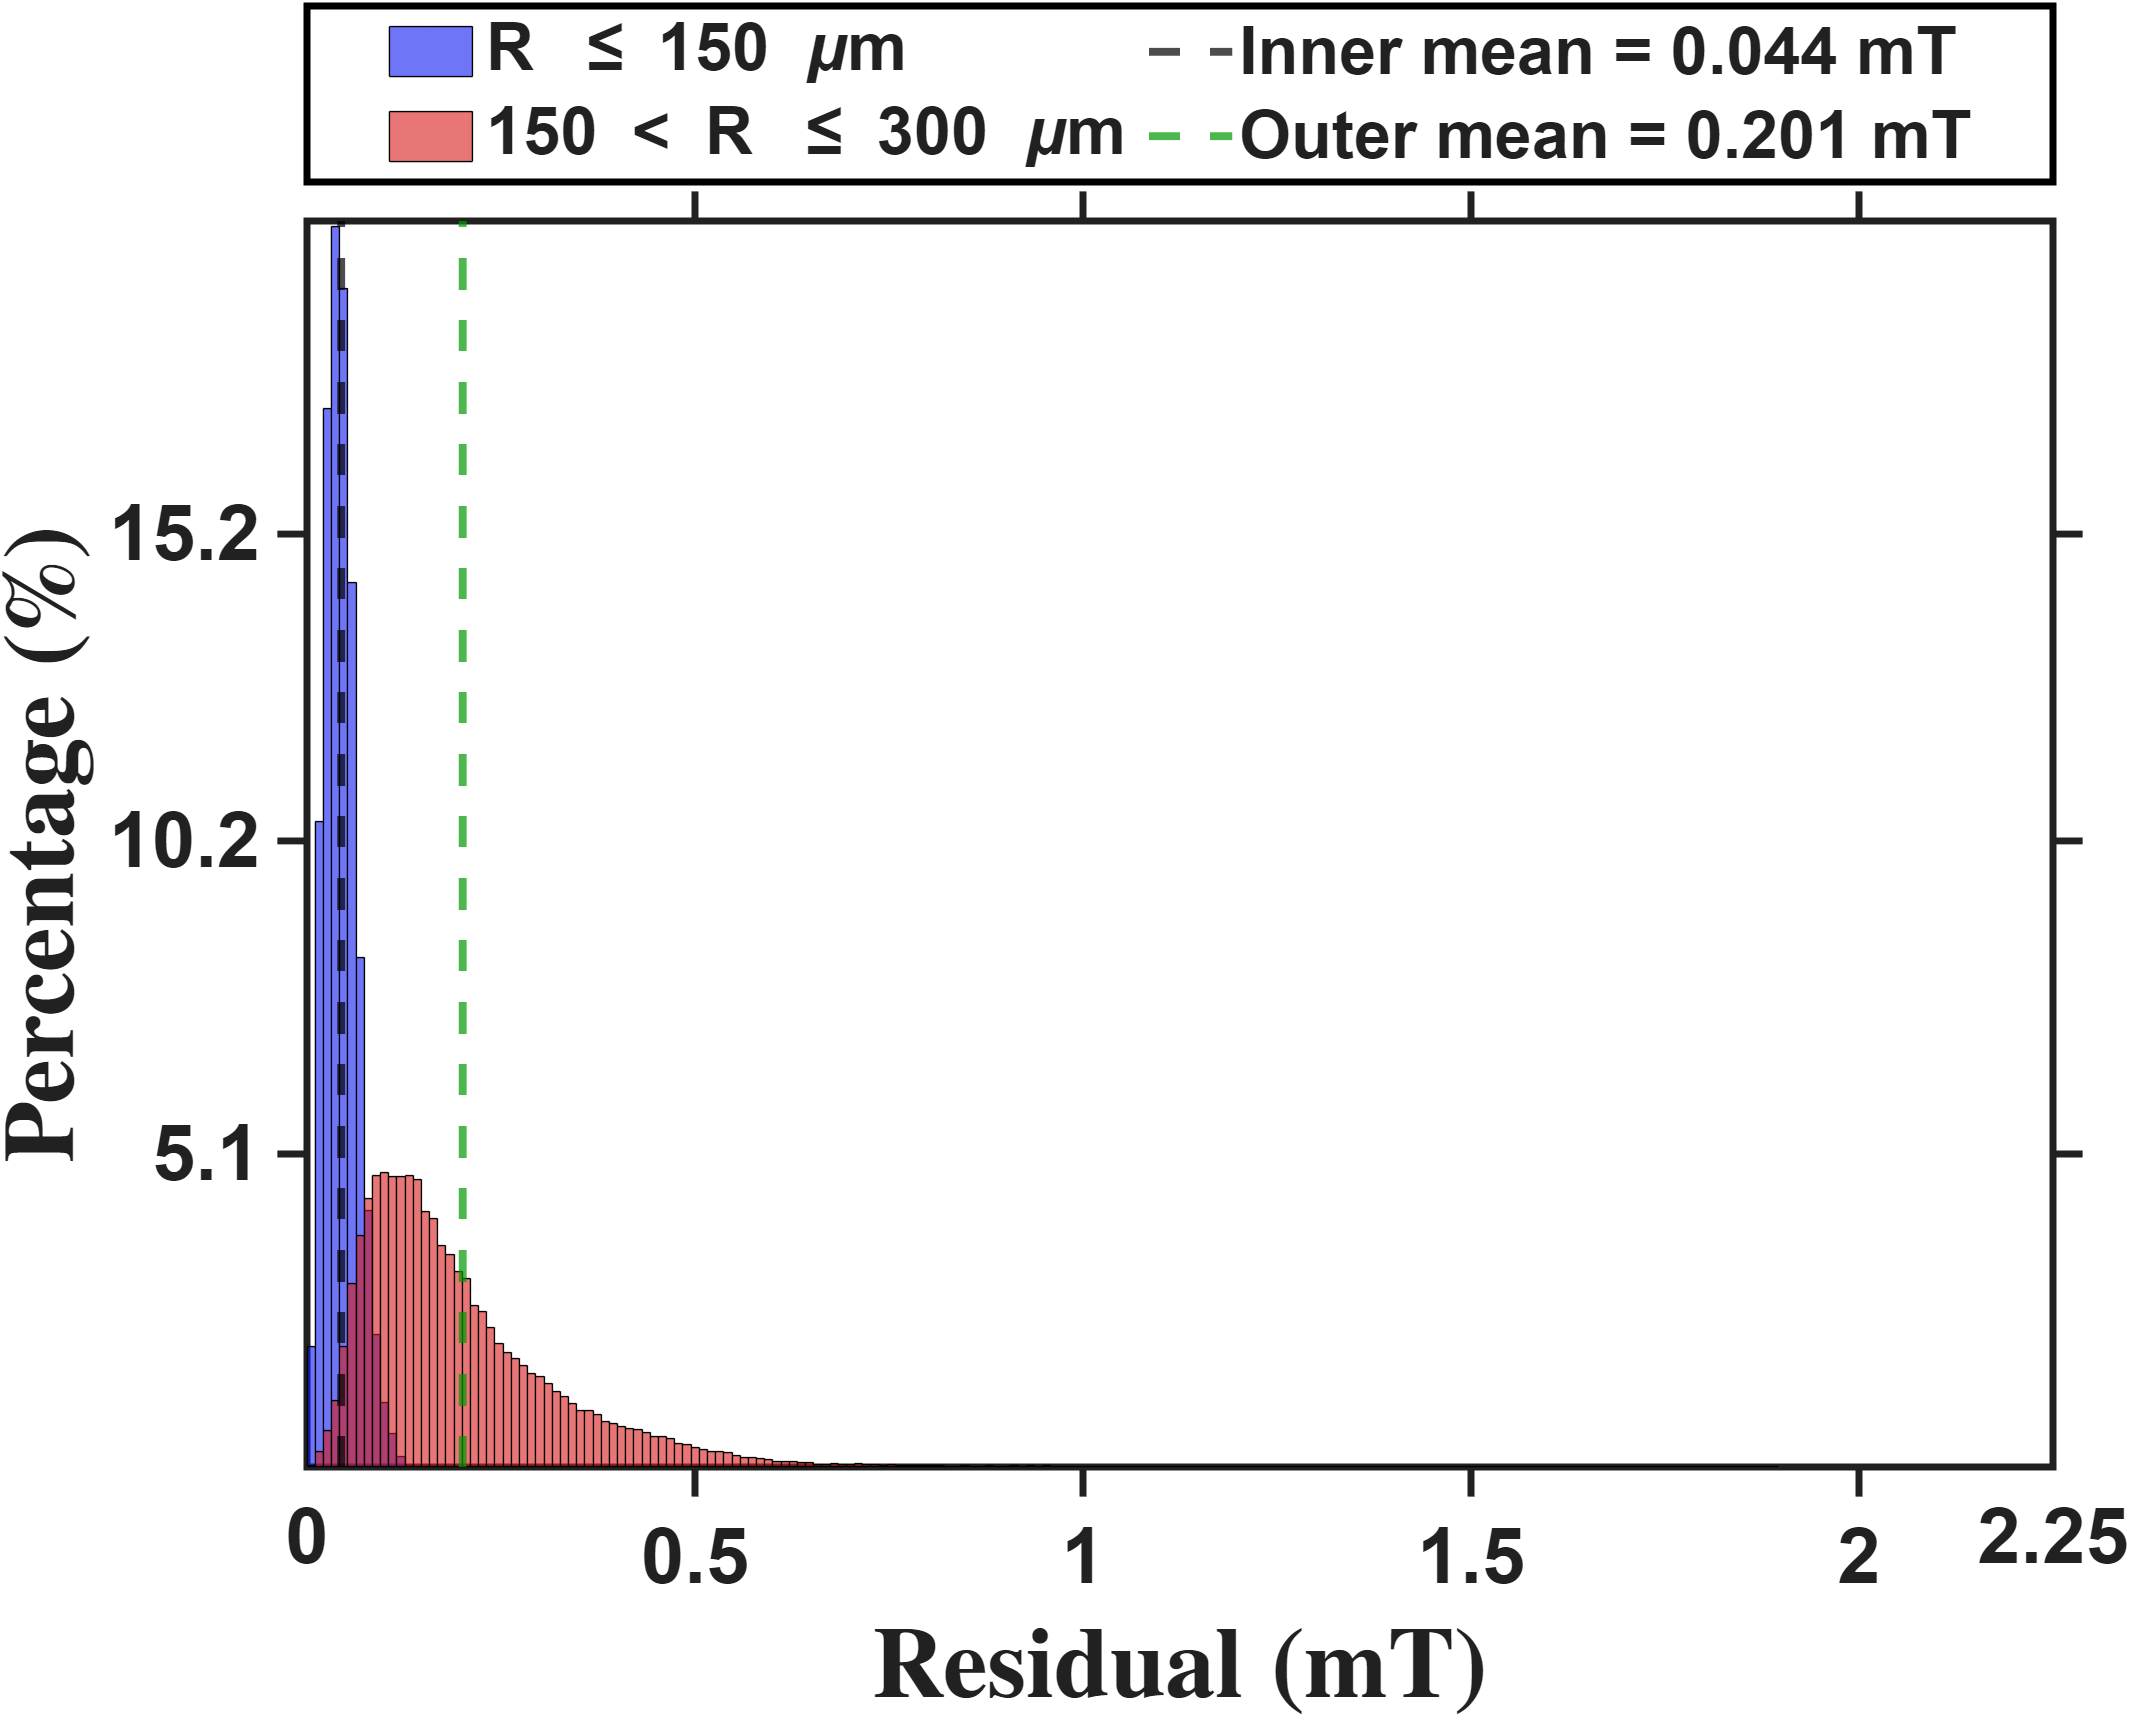
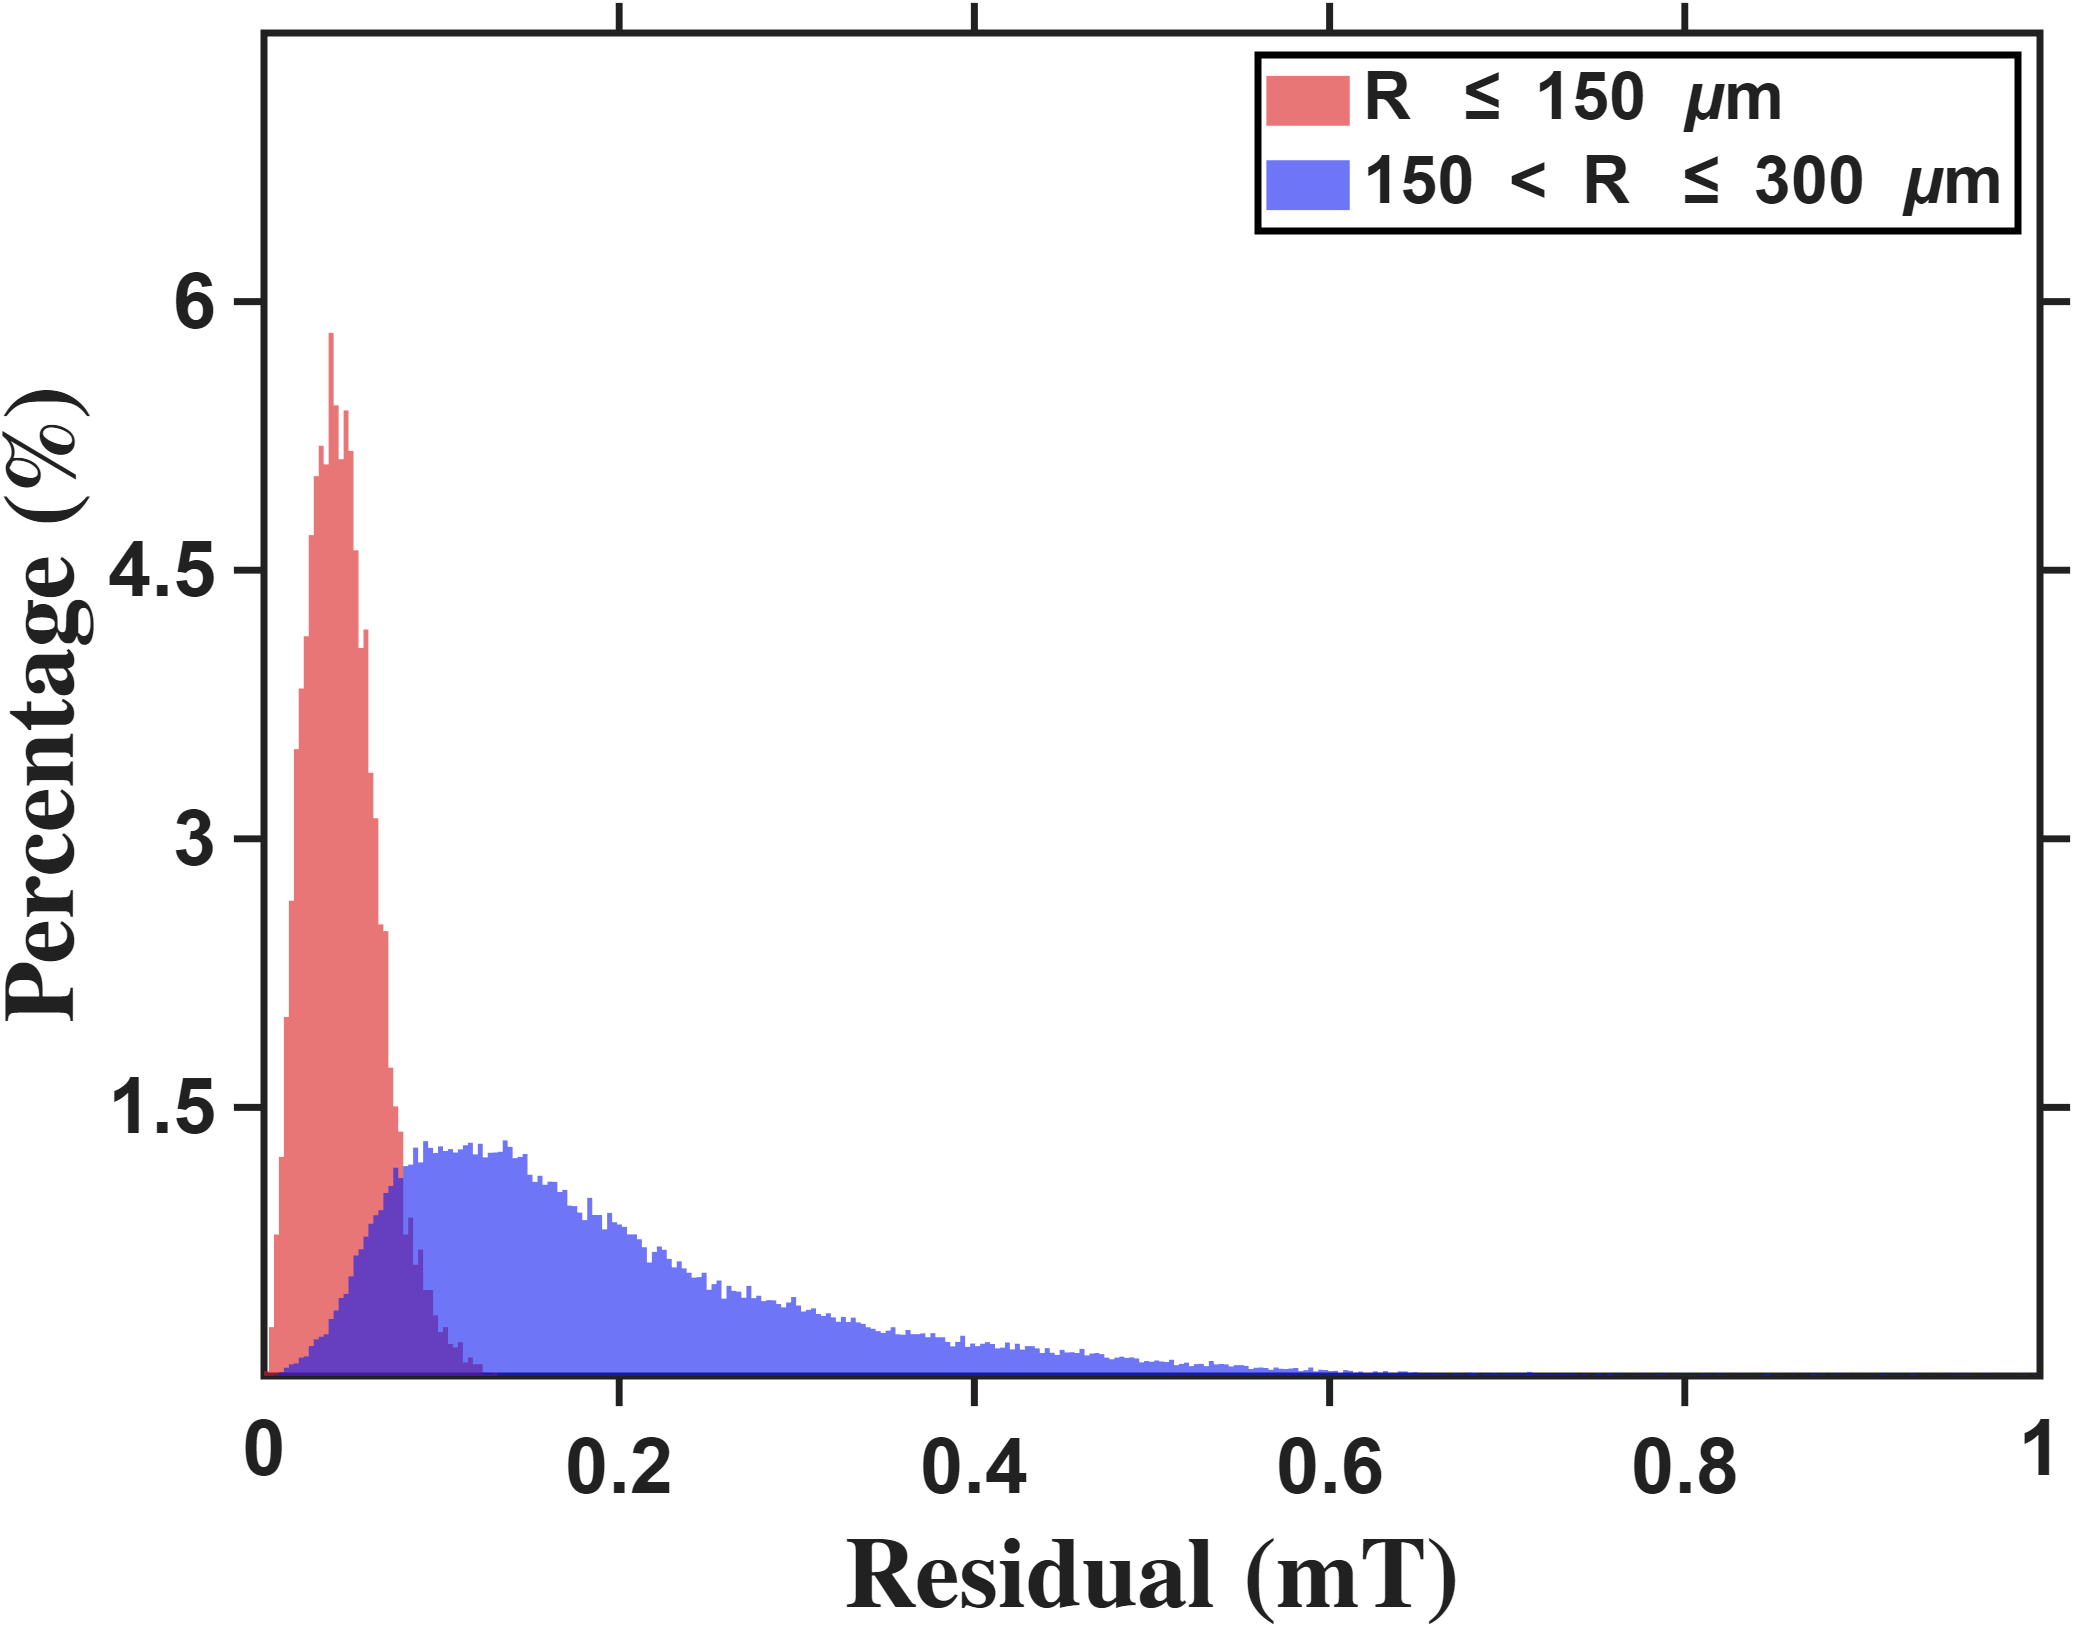
sensor 判準改連續 10 級、SOFF 收回定案值，並補齊 R300 的收斂校正
三件事，都是把先前留下的落差收掉。

(1) sensor 收斂判準：單次過關 -> 連續 SEN_KWIN(=10) 級
    原本 ws 要「連續 10 步」而 sensor 只要「第一次低於門檻」，兩者穩健度不對等。
    現在維持 'ref' 判準（離 10000 點密參考的偏差 < 0.1%），但要求連續 10 級都過，
    收斂設計取窗首那級（與 ws 的 q_hit 同慣例）。
    ⚠ **沒有**改成 ws 那種「相對前一步的變化率」：實測那條在感測器端會連兩次
      假收斂（5 點 / 8 點，實際誤差都是 0.6%）—— 階梯在角向緩慢爬升時
      「變化率小」與「離真值近」是兩回事。這點寫進迴圈註解了。

    三個 SOFF 的實測（同一參考、同一門檻，可互比）：
      3.0   mm  ->  13 級 (3,13,2) =  78 點  0.0970%
      4.572 mm  ->   6 級 (2, 7,2) =  28 點  0.0608%   <- 定案距離
      5.0   mm  ->   4 級 (1, 6,2) =  12 點  0.0985%
    三個距離下新舊判準給**相同答案**，所以這次改動是 no-op，買的是保險。
    保險有必要：軌跡非單調（4.572mm 第 3 級 0.1337 好過第 4 級 0.1671），
    門檻稍寬就會讓單次判準停在會反彈的那一級。
    ⚠ 收斂點綁 SOFF，換 sensor 距離必須重測，沒有固定點數。

(2) SOFF 由實驗值 5.0 mm 收回定案的 4.572 mm（上下極都是）。
    連帶驗證了 sensor 距離不變性：l_hat 872.9526 um 與 NMAE 0.2629% 與
    SOFF=5mm 那次**逐位相同**，只有 g_V 隨距離縮放（7.6732e-3 -> 7.3954e-3）。

(3) 補跑 R=300 um 的收斂校正 —— plot_err_hist_shell 預設 Rum=300，先前沒有
    對應的 conv .mat 會被擋下來。
      single    (2,4,10) = 80 點  l_hat 862.1 um  g_I 9.4419  NMAE 6.14%
      eighteen  (2,3,10) = 60 點  l_hat 851.1 um  g_I 10.6478 NMAE 1.77%
    兩支 err_hist_shell R300 圖隨之更新（內層 1771 / 外層 12311 格點）。

順帶修掉一個我在上一輪重構引入的 regression：conv_design_sensor 併入三線性後
多了 B 輸出，info 從第 5 個變第 6 個，main.m 取階梯表的地方還在用 5 個輸出
（拿到 tri 而非 info）-> voltage 分支必炸。已修並實跑通過。

Changed region(s): [[0.0, 0.0, 1.0, 1.0], [0.4322, 0.8912, 0.5248, 0.9219], [0.8644, 0.8912, 0.8953, 0.9219]]

diff --git a/magnetic_sim/ANSYS/main/matlab/Maxwell/main/main.m b/magnetic_sim/ANSYS/main/matlab/Maxwell/main/main.m
@@ -44,14 +44,15 @@ CONV_KI_REQ  = true;        % false = K_I_bar 完全不參與判準，只看 l_h
 INTERP_TO = '';             % '' 正常；否則把本 variant 場內插到此參考 geom 的 R≤R_select 點雲（公平比較）
 V_METHOD  = '';             % '' → cfg.v_method（現行 'grid' = 規則格三線性；另有 'scattered' / 'csv-tet'）
 % voltage-only 取樣調參
-SOFF_upper = 5.0e-3;        % 上極 sensor 沿錐面距極尖 [m]（定案值 4.572e-3）
-SOFF_lower = 5.0e-3;        % [ADDED] 下極 sensor 沿錐面距極尖 [m]（原寫死 4.572e-3；兩層要一起移才與示意圖一致）
+SOFF_upper = 4.572e-3;        % 上極 sensor 沿錐面距極尖 [m]（定案值 4.572e-3）
+SOFF_lower = 4.572e-3;        % [ADDED] 下極 sensor 沿錐面距極尖 [m]（原寫死 4.572e-3；兩層要一起移才與示意圖一致）
 % [REMOVED 2026-08-23 使用者拍板] n_uniform **廢除** —— 每 sensor 的取樣設計不再手填，
 %   改由「conv_design_sensor 產點 <-> build_V_matrix 組 V」的收斂迴圈自動決定（見下）。
 %   舊定案手填值是等測度網格 (3,20,3)=180 點/sensor（比舊亂數 500 點準 11 倍）；
 %   收斂迴圈實測會停在 (3,13,2)=78 點，下游 g_V 只差 0.009%、NMAE 完全相同。
 SEN_SEED = [1 3 2];         % sensor 階梯種子（地板 N_theta>=3、N_z>=2 由 conv_design_sensor 內建）
 SEN_TOL  = 0.001;           % 判準：V 的 36 個元素**全部**離密參考 < 0.1%
+SEN_KWIN = 10;              % ...且要**連續 SEN_KWIN 級**都過（見下方迴圈註解）
 SEN_REF  = [10 100 10];     % 密參考設計（10000 點/sensor；自身誤差 0.0042%）
 sensor_r   = 0.15e-3;       % sensor 圓柱半徑 [m]
 axial_tol  = 0.10e-3;       % sensor 圓柱高（沿 n+）[m]
@@ -98,23 +99,43 @@ if strcmp(BASE, 'voltage')
     fprintf('[voltage] sensor 場格點 %d（WP 擬合場格點 %d）\n', numel(raw_v.x), numel(raw.x));
     bV = @(t) build_V_matrix(cfg, VARIANT, raw_v, cfg.S_hall, SOFF_upper, t, ...
                              sensor_r, axial_tol, [], V_METHOD, SOFF_lower);
-    [~,~,~,~,si] = conv_design_sensor(SEN_SEED(1), SEN_SEED(2), SEN_SEED(3), ...
+    % ⚠ info 是**第 6 個**輸出（三線性併入後多了 B）；少一個 ~ 會拿到 tri 而非 info。
+    [~,~,~,~,~,si] = conv_design_sensor(SEN_SEED(1), SEN_SEED(2), SEN_SEED(3), ...
         struct('ladder',CONV_NDMAX, 'sensor_r',sensor_r, 'axial_tol',axial_tol));
     Vref = bV(SEN_REF);
     fprintf('[sensor] 密參考 (%d,%d,%d) = %d 點/sensor\n', SEN_REF, prod(SEN_REF));
+    % [MODIFIED 2026-08-23 使用者拍板] 判準由「第一次低於門檻就停」改成
+    %   **連續 SEN_KWIN 級都低於門檻**，與 ws 那條的穩健度看齊（原本 ws 要連續 10 步、
+    %   sensor 只要一次，兩者不對等；實測第一次過關是 0.0985% 對門檻 0.100%，
+    %   只差 1.5%，靠單一級決定太脆弱）。
+    %   ⚠ 這裡**維持 'ref' 判準**（離密參考的偏差），只是多要求連續 KWIN 級 ——
+    %     **不可**改成 ws 那種「相對前一步的變化率」：實測 sensor 端那條會連兩次
+    %     假收斂（5 點 / 8 點，實際誤差都是 0.6%），因為階梯在角向緩慢爬升時
+    %     「變化率小」與「離真值近」是兩回事。
+    %   收斂設計取**連續窗的第一級**（與 ws 的 q_hit 同慣例）。
     sen_hit = false;
+    sen_ok  = false(1, size(si.ladder,1));
+    sen_dev = nan(1, size(si.ladder,1));
     for q = 1:size(si.ladder,1)
-        sen_tri = si.ladder(q,:);
-        V   = bV(sen_tri);
+        V   = bV(si.ladder(q,:));
         dev = max(abs(V(:) - Vref(:)) ./ abs(Vref(:)));      % 36 個元素全部要過
-        if dev < SEN_TOL
+        sen_ok(q) = dev < SEN_TOL;   sen_dev(q) = dev;
+        i0 = ftrue(sen_ok(1:q), SEN_KWIN);
+        if ~isnan(i0)
+            sen_tri = si.ladder(i0,:);
+            V = bV(sen_tri);                                 % 回到窗首那級重算 V
             fprintf(['[sensor] 收斂設計 (%d,%d,%d)、%d 點/sensor' ...
-                     '（掃了 %d 級，最大偏差 %.4f%%）\n'], sen_tri, prod(sen_tri), q, dev*100);
+                     '（掃了 %d 級；第 %d~%d 級連續 %d 次 < %.3f%%，' ...
+                     '窗內偏差 %.4f~%.4f%%）\n'], ...
+                    sen_tri, prod(sen_tri), q, i0, i0+SEN_KWIN-1, SEN_KWIN, ...
+                    SEN_TOL*100, min(sen_dev(i0:i0+SEN_KWIN-1))*100, ...
+                    max(sen_dev(i0:i0+SEN_KWIN-1))*100);
             sen_hit = true;   break
         end
     end
-    assert(sen_hit, 'sensor：%d 級內未達 %.3f%%（最後一級 (%d,%d,%d) 偏差 %.4f%%）', ...
-           CONV_NDMAX, SEN_TOL*100, sen_tri, dev*100);
+    assert(sen_hit, ['sensor：%d 級內沒有連續 %d 級 < %.3f%%' ...
+                     '（最後一級 (%d,%d,%d) 偏差 %.4f%%）'], ...
+           CONV_NDMAX, SEN_KWIN, SEN_TOL*100, si.ladder(end,:), sen_dev(end)*100);
 end
 
 %% ---- ②③④ 產點+取場 -> 校正 -> 判收斂（迴圈由 main 驅動）--------------------
@@ -189,7 +210,7 @@ switch BASE
         rec.SOFF_upper = SOFF_upper;  rec.SOFF_lower = SOFF_lower;   % emit_results 據此加檔名後綴
         % sensor 取樣參數一併記進 .mat（自描述）
         rec.sen_tri = sen_tri;  rec.sensor_r = sensor_r;  rec.axial_tol = axial_tol;
-        rec.SEN_REF = SEN_REF;  rec.SEN_TOL = SEN_TOL;
+        rec.SEN_REF = SEN_REF;  rec.SEN_TOL = SEN_TOL;  rec.SEN_KWIN = SEN_KWIN;
         [D_bar, gV_hat, G, rm] = solve_voltage(l_hat, e, Pc_base, P, Bstack, V, K22_SET);
         rec.D_bar = D_bar;  rec.gV_hat = gV_hat;  rec.G = G;  rec.V = V;
     otherwise
